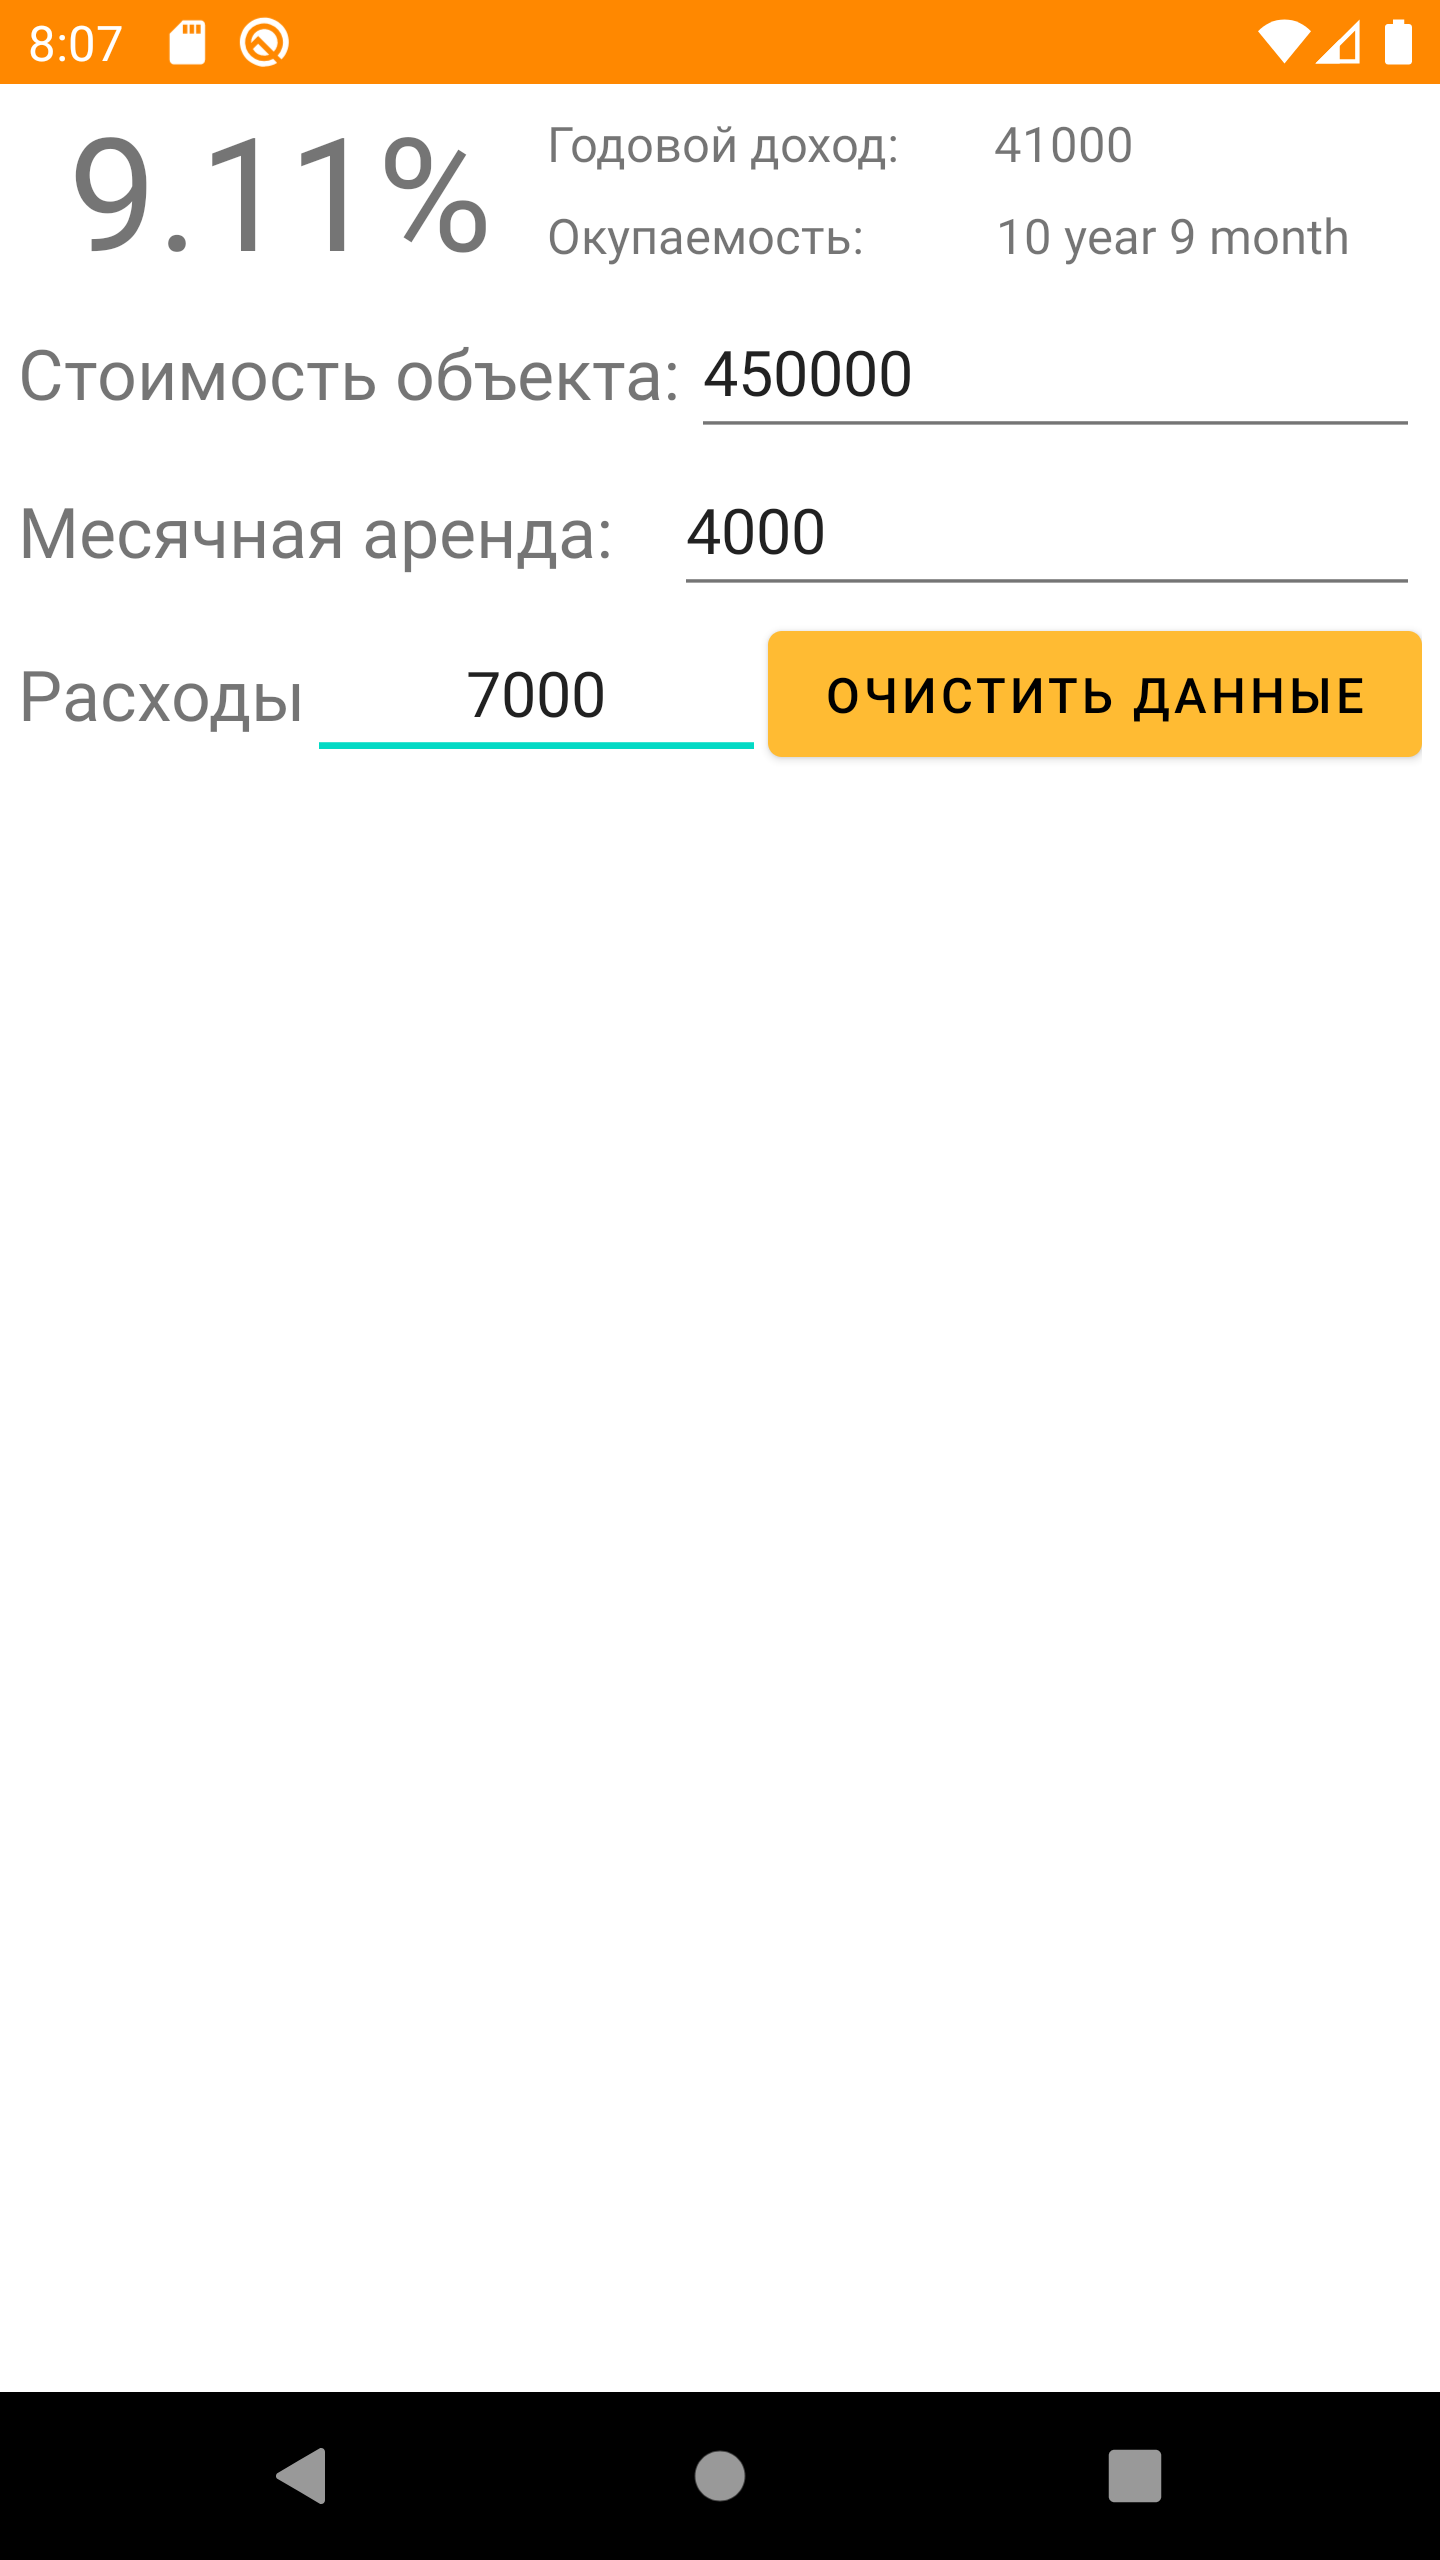
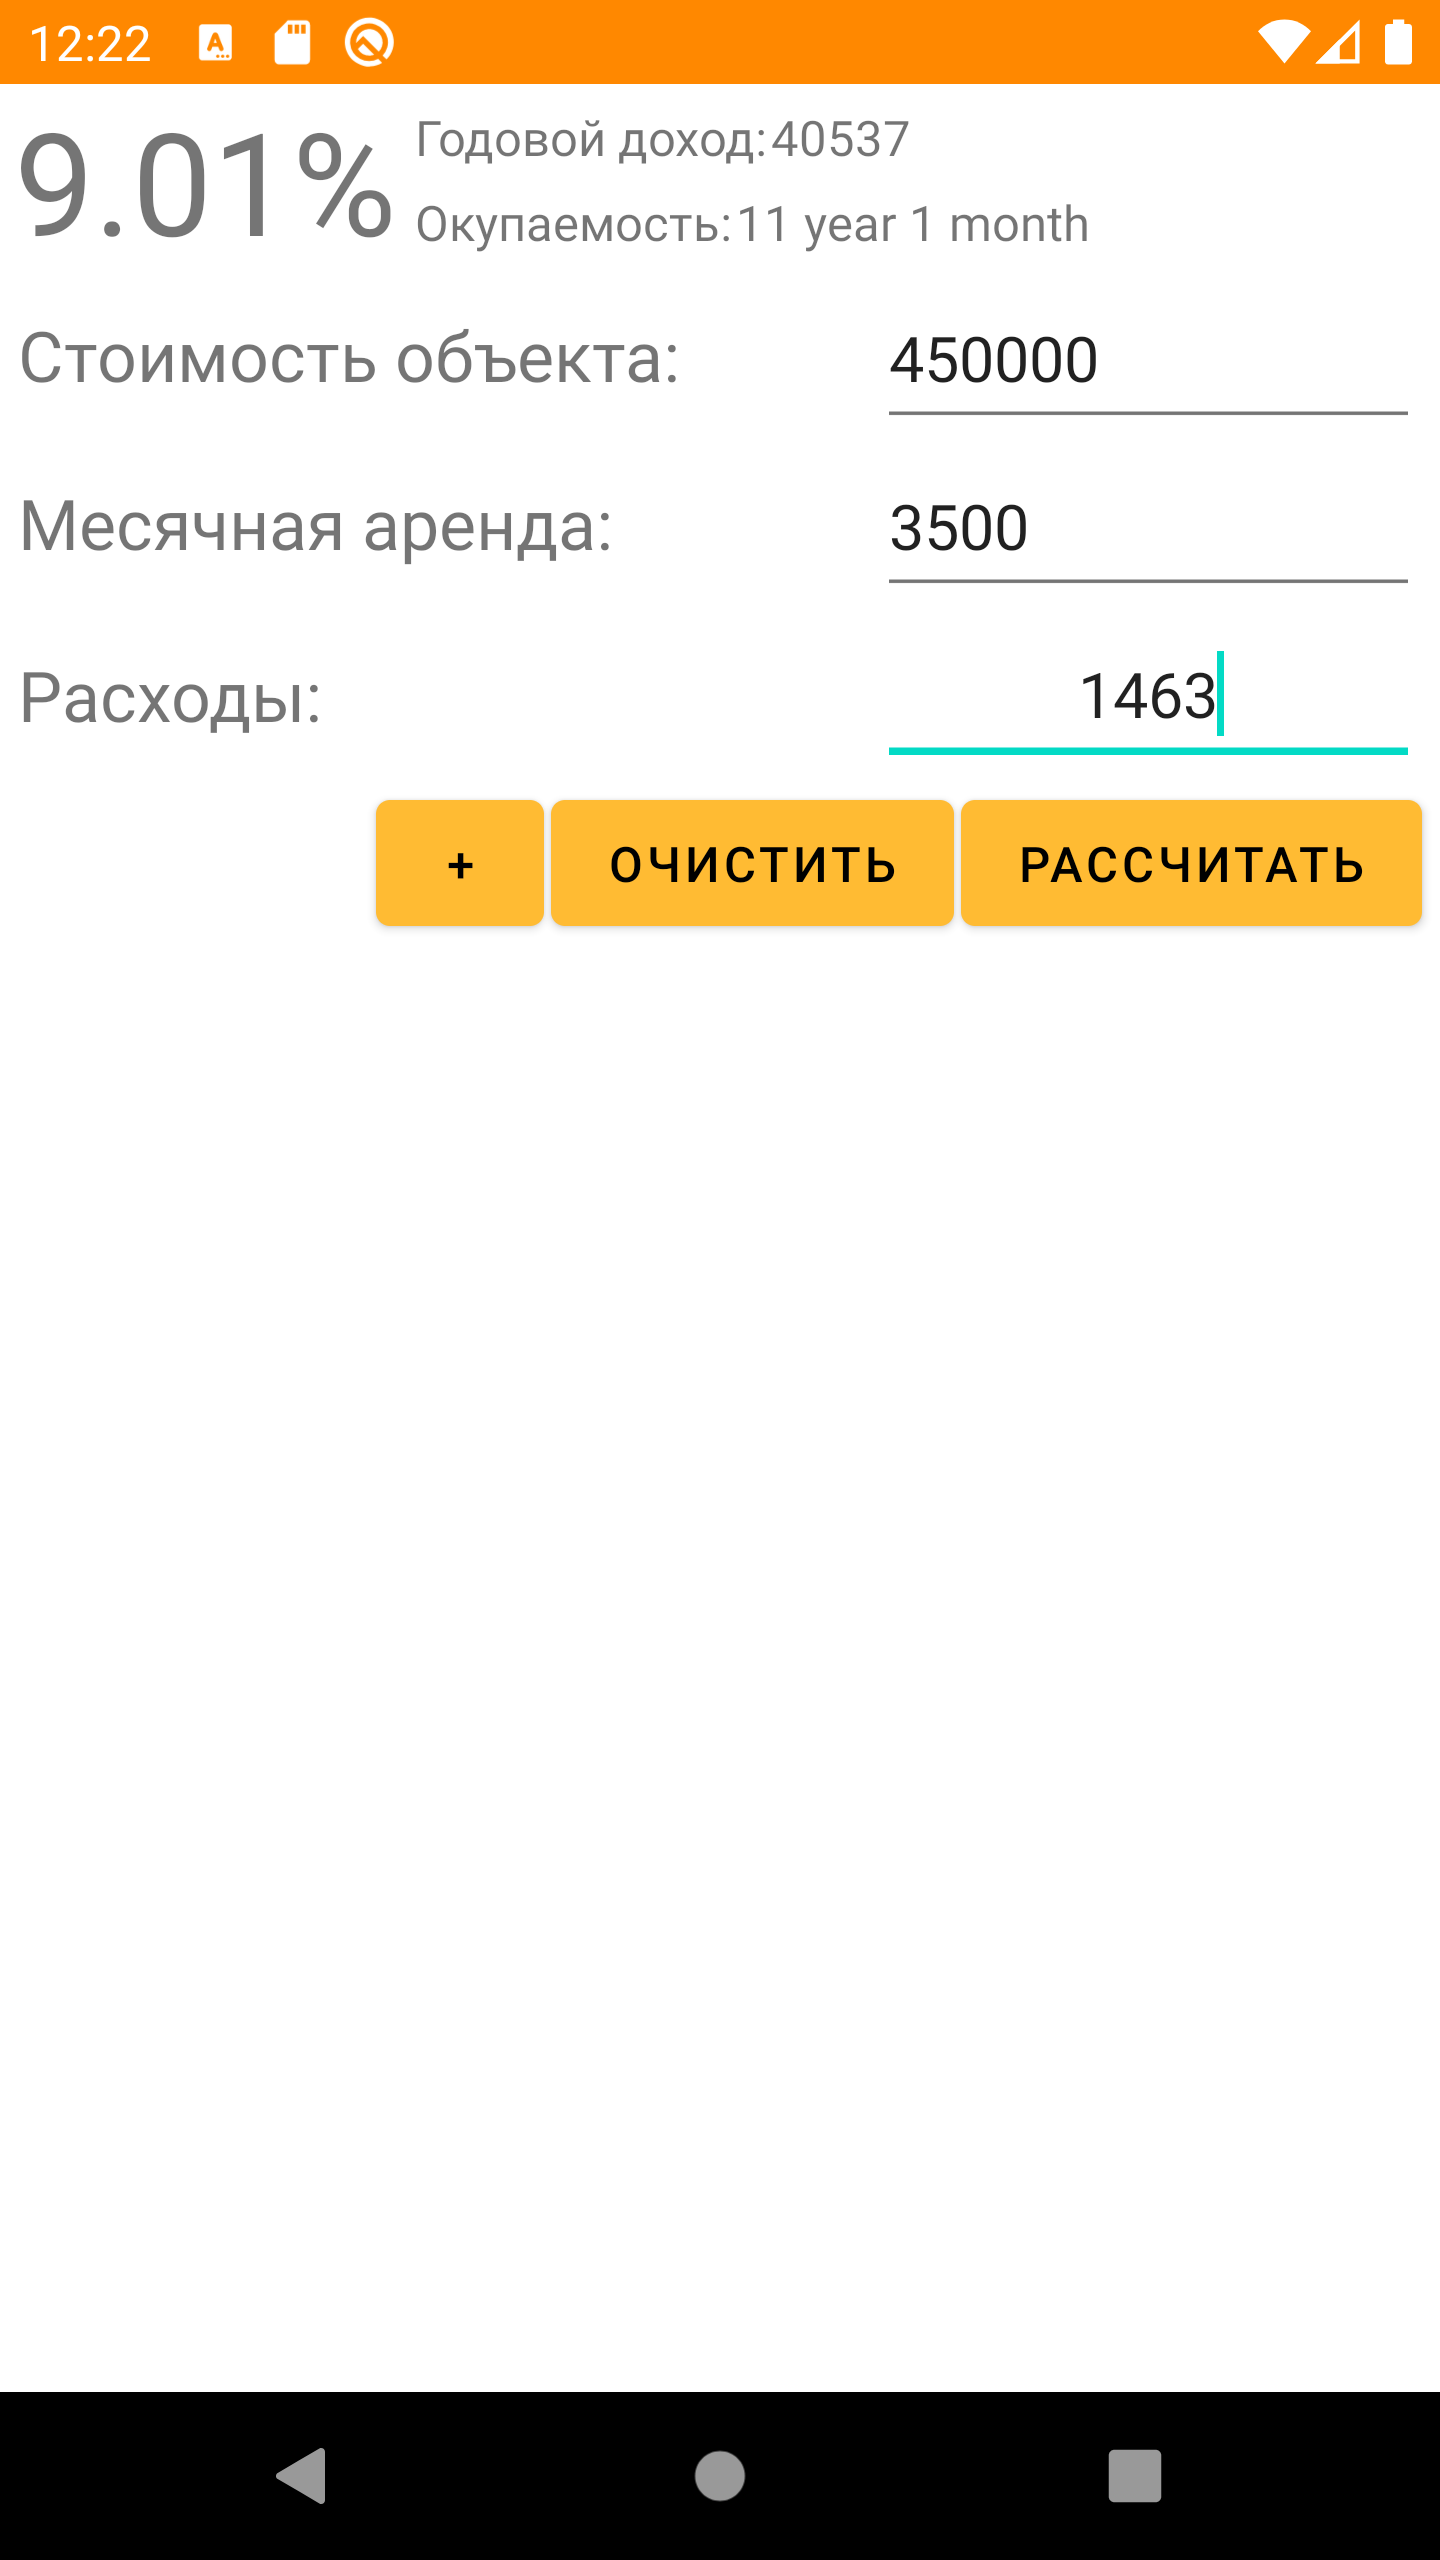
- added a second calculator - fixed bugs

diff --git a/app/src/main/java/com/example/calculator/presentation/SecondFragment.java b/app/src/main/java/com/example/calculator/presentation/SecondFragment.java
@@ -24,7 +24,7 @@ import com.example.calculator.R;
 import com.example.calculator.entity.Calculation;
 import com.example.calculator.presentation.viewmodel.MyViewModel;
 
-public class FragmentCalc extends Fragment {
+public class SecondFragment extends Fragment {
     private EditText editTextCostObject;
     private EditText editTextMonthlyRent;
     private EditText editTextExpenses;
@@ -37,12 +37,7 @@ public class FragmentCalc extends Fragment {
     private Button btnAddSecondFragment;
     private Button btnCalculate;
     private FragmentManager fragmentManager;
-    private boolean secondFragmentIsNotAdded = true;
-    private SecondFragment secondFragment;
-    private String textValueButtonAddFragment = "+";
-    private final String TAG_SECOND_FRAGMENT = "TAG_SECOND_FRAGMENT";
-    private final String KEY_BUNDLE_SECOND_FRAGMENT_IS_NOT_ADDED = "KEY_BUNDLE_IS_SET_SECOND_FRAGMENT";
-    private final String KEY_BUNDLE_TEXT_VALUE_BUTTON_ADD = "KEY_BUNDLE_TEXT_VALUE_BUTTON_ADD";
+
 
     @Override
     public void onAttach(@NonNull Context context) {
@@ -67,28 +62,19 @@ public class FragmentCalc extends Fragment {
     @Override
     public void onViewCreated(@NonNull View view, @Nullable Bundle savedInstanceState) {
         super.onViewCreated(view, savedInstanceState);
-        if (savedInstanceState!= null) {
-            textValueButtonAddFragment
-                    = savedInstanceState.getString(KEY_BUNDLE_TEXT_VALUE_BUTTON_ADD);
-            System.out.println(textValueButtonAddFragment + " klfjsdds");
-        }
-        if (savedInstanceState != null && fragmentManager.findFragmentByTag(TAG_SECOND_FRAGMENT) != null) {
-            secondFragmentIsNotAdded = savedInstanceState.getBoolean(KEY_BUNDLE_SECOND_FRAGMENT_IS_NOT_ADDED);
-            secondFragment = (SecondFragment) fragmentManager.findFragmentByTag(TAG_SECOND_FRAGMENT);
 
-        } else secondFragment = new SecondFragment();
+
         initializeViews(view);
         setClickListeners();
-        LiveData<Calculation> liveData = myViewModel.getDataForFirstFragment();
+        btnAddSecondFragment.setVisibility(View.GONE);
+        LiveData<Calculation> liveData = myViewModel.getDataForSecondFragment();
         liveData.observe(getViewLifecycleOwner(), new Observer<Calculation>() {
             @Override
             public void onChanged(Calculation calculation) {
                 setDataToTextView(calculation);
             }
         });
-//
     }
-
 
     private void setDataToTextView(Calculation c) {
         tvPercentageOfIncome.setText(c.getPercentageOfIncome());
@@ -96,13 +82,13 @@ public class FragmentCalc extends Fragment {
         tvPaybackPeriod.setText(c.getPaybackPeriod());
     }
 
-
     private void setClickListeners() {
+
         editTextExpenses.setOnClickListener(v -> {
             calculate();
         });
 
-        btnCalculate.setOnClickListener(v -> {
+        btnCalculate.setOnClickListener(v ->{
             calculate();
         });
 
@@ -116,25 +102,6 @@ public class FragmentCalc extends Fragment {
             return true;
         });
 
-
-        btnAddSecondFragment.setOnClickListener(v -> {
-            if (secondFragmentIsNotAdded) {
-                fragmentManager.beginTransaction()
-                        .add(R.id.containerFrameLayout2, secondFragment, TAG_SECOND_FRAGMENT)
-                        .commit();
-                textValueButtonAddFragment = "-";
-                btnAddSecondFragment.setText(textValueButtonAddFragment);
-                secondFragmentIsNotAdded = false;
-
-            } else {
-                fragmentManager.beginTransaction()
-                        .remove(secondFragment)
-                        .commit();
-                secondFragmentIsNotAdded = true;
-                textValueButtonAddFragment = "+";
-                btnAddSecondFragment.setText(textValueButtonAddFragment);
-            }
-        });
 
     }
 
@@ -150,9 +117,7 @@ public class FragmentCalc extends Fragment {
         buttonClearData = view.findViewById(R.id.buttonClearData);
         btnAddSecondFragment = view.findViewById(R.id.btnAddFragment);
         btnCalculate = view.findViewById(R.id.buttonCalculate);
-        btnAddSecondFragment.setText(textValueButtonAddFragment);
     }
-
 
     private void clearViews() {
         tvPercentageOfIncome.setText("0.0%");
@@ -162,24 +127,14 @@ public class FragmentCalc extends Fragment {
         editTextCostObject.setText("");
     }
 
-    private void calculate() {
+    private void calculate(){
         String expenses = "";
         if (editTextExpenses.getText().length() == 0) expenses = "0";
         else expenses = editTextExpenses.getText().toString();
         if (editTextCostObject.getText().length() != 0 && editTextMonthlyRent.getText().length() != 0) {
-            myViewModel.calculateForFirstFragment(editTextCostObject.getText().toString(),
+            myViewModel.calculateForSecondFragment(editTextCostObject.getText().toString(),
                     editTextMonthlyRent.getText().toString(), expenses);
         } else
             Toast.makeText(context, "Введите данные", Toast.LENGTH_SHORT).show();
     }
-
-    @Override
-    public void onSaveInstanceState(@NonNull Bundle outState) {
-        outState.putString(KEY_BUNDLE_TEXT_VALUE_BUTTON_ADD, textValueButtonAddFragment);
-        super.onSaveInstanceState(outState);
-        outState.putBoolean(KEY_BUNDLE_SECOND_FRAGMENT_IS_NOT_ADDED, secondFragmentIsNotAdded);
-
-    }
-
-
 }

diff --git a/app/src/main/java/com/example/calculator/presentation/viewmodel/MyViewModel.java b/app/src/main/java/com/example/calculator/presentation/viewmodel/MyViewModel.java
@@ -8,23 +8,33 @@ import com.example.calculator.entity.Calculation;
 import com.example.calculator.interactor.UseCase;
 
 public class MyViewModel extends ViewModel {
-private MutableLiveData<Calculation> mutableLiveData;
+private MutableLiveData<Calculation> liveDataFirstFragment;
+private MutableLiveData<Calculation> liveDataSecondFragment;
 private UseCase useCase;
+
 
     public MyViewModel(UseCase useCase) {
         this.useCase = useCase;
     }
 
-    public LiveData<Calculation> getData() {
-        if(mutableLiveData == null) {
-            mutableLiveData = new MutableLiveData();
+    public LiveData<Calculation> getDataForFirstFragment() {
+        if(liveDataFirstFragment == null) {
+            liveDataFirstFragment = new MutableLiveData();
         }
-        
-        return mutableLiveData;
-    }
-    
-    public void calculate(String costObject, String monthlyRent, String expenses){
-        mutableLiveData.setValue(useCase.calculate(costObject, monthlyRent, expenses));
+        return liveDataFirstFragment;
     }
 
+    public LiveData<Calculation> getDataForSecondFragment() {
+        if(liveDataSecondFragment == null) {
+            liveDataSecondFragment = new MutableLiveData();
+        }
+        return liveDataSecondFragment;
+    }
+    
+    public void calculateForFirstFragment(String costObject, String monthlyRent, String expenses){
+        liveDataFirstFragment.setValue(useCase.calculate(costObject, monthlyRent, expenses));
+    }
+    public void calculateForSecondFragment(String costObject, String monthlyRent, String expenses){
+        liveDataSecondFragment.setValue(useCase.calculate(costObject, monthlyRent, expenses));
+    }
 }

diff --git a/app/src/main/java/com/example/calculator/entity/Calculation.java b/app/src/main/java/com/example/calculator/entity/Calculation.java
@@ -1,6 +1,7 @@
 package com.example.calculator.entity;
 
 public class Calculation {
+
     private double costObject;
     private double monthlyRent;
     private double expenses;
@@ -19,6 +20,7 @@ public class Calculation {
     public String getPaybackPeriod() {
         return paybackPeriod;
     }
+
 
     public Calculation(double costObject, double monthlyRent, double expenses) {
         this.costObject = costObject;
@@ -43,5 +45,11 @@ public class Calculation {
         double d = costObject / (monthlyRent * 12 - expenses);
         String[] s = String.valueOf(d).split("\\.");
         paybackPeriod = s[0] + " year " + s[1].substring(0, 1) + " month";
+    }
+
+    public void calculation(double costObject, double monthlyRent, double expenses) {
+        setPercentageOfIncome(costObject, monthlyRent, expenses);
+        setNetProfit(monthlyRent, expenses);
+        setPaybackPeriod(costObject, monthlyRent, expenses);
     }
 }

diff --git a/app/src/main/java/com/example/calculator/presentation/MainActivity.java b/app/src/main/java/com/example/calculator/presentation/MainActivity.java
@@ -2,6 +2,7 @@ package com.example.calculator.presentation;
 
 import android.os.Bundle;
 
+import androidx.annotation.NonNull;
 import androidx.appcompat.app.AppCompatActivity;
 import androidx.appcompat.app.AppCompatDelegate;
 import androidx.fragment.app.FragmentManager;
@@ -25,14 +26,16 @@ public class MainActivity extends AppCompatActivity {
         AppCompatDelegate.setDefaultNightMode(AppCompatDelegate.MODE_NIGHT_NO);//Отключаем темную тему
         useCase = new UseCase();
         myViewModel = new ViewModelProvider(this, new ModelFactory(useCase)).get(MyViewModel.class);
+
         FragmentManager fragmentManager = getSupportFragmentManager();
         if (savedInstanceState == null) {
-
             fragmentManager.beginTransaction()
                     .add(R.id.containerFrameLayout, new FragmentCalc())
                     .commit();
         }
     }
+
+
 
 
 }

diff --git a/app/src/main/java/com/example/calculator/interactor/UseCase.java b/app/src/main/java/com/example/calculator/interactor/UseCase.java
@@ -2,17 +2,17 @@ package com.example.calculator.interactor;
 
 import com.example.calculator.entity.Calculation;
 
-public class UseCase{
+public class UseCase {
 
-   public UseCase() {
+    public UseCase() {
     }
 
     public Calculation calculate(String costObject, String monthlyRent, String expenses) {
         double dCostObject = Double.parseDouble(costObject);
         double dMonthlyRent = Double.parseDouble(monthlyRent);
         double dExpenses = Double.parseDouble(expenses);
-        Calculation calculation = new Calculation(dCostObject, dMonthlyRent, dExpenses);
-        return calculation;
+        return new Calculation(dCostObject, dMonthlyRent, dExpenses);
+
     }
-    
+
 }

diff --git a/README.md b/README.md
@@ -27,4 +27,7 @@ B*12-D
 ```
 
 ## App preview
+<p float="left">
 <img src="https://github.com/AntonAlekseevich93/Calculator/blob/master/app/src/main/res/preview/Screenshot1.png" width="250" height="450">
+<img src="https://github.com/AntonAlekseevich93/Calculator/blob/master/app/src/main/res/preview/Screenshot2.png" width="250" height="450">
+  </p>
